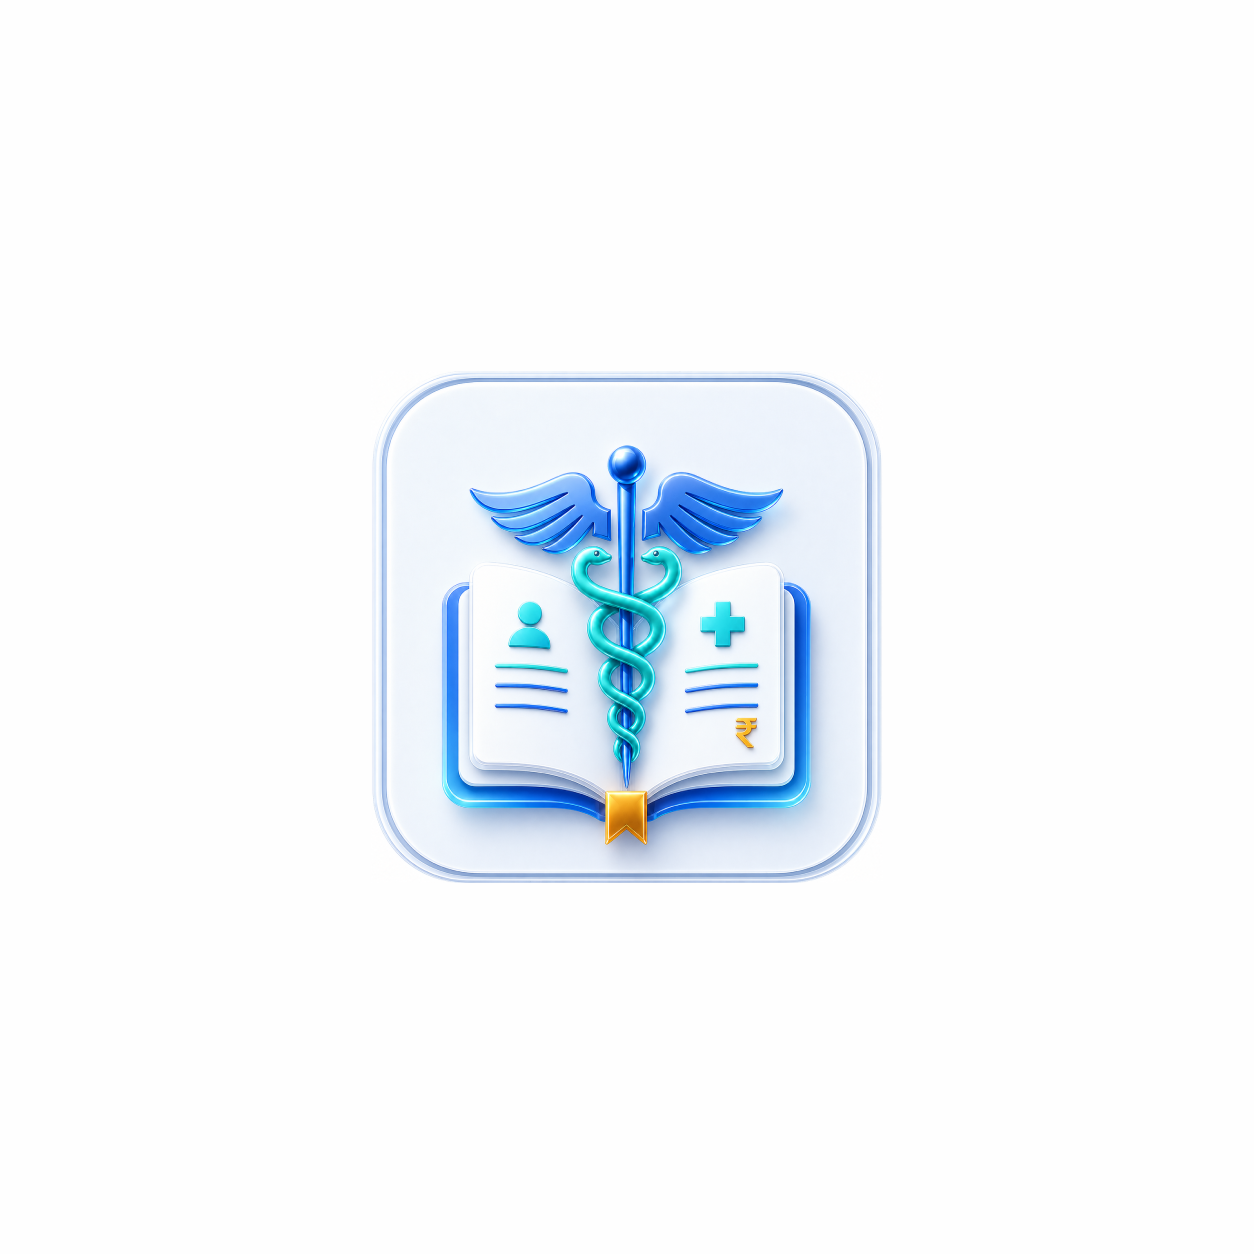
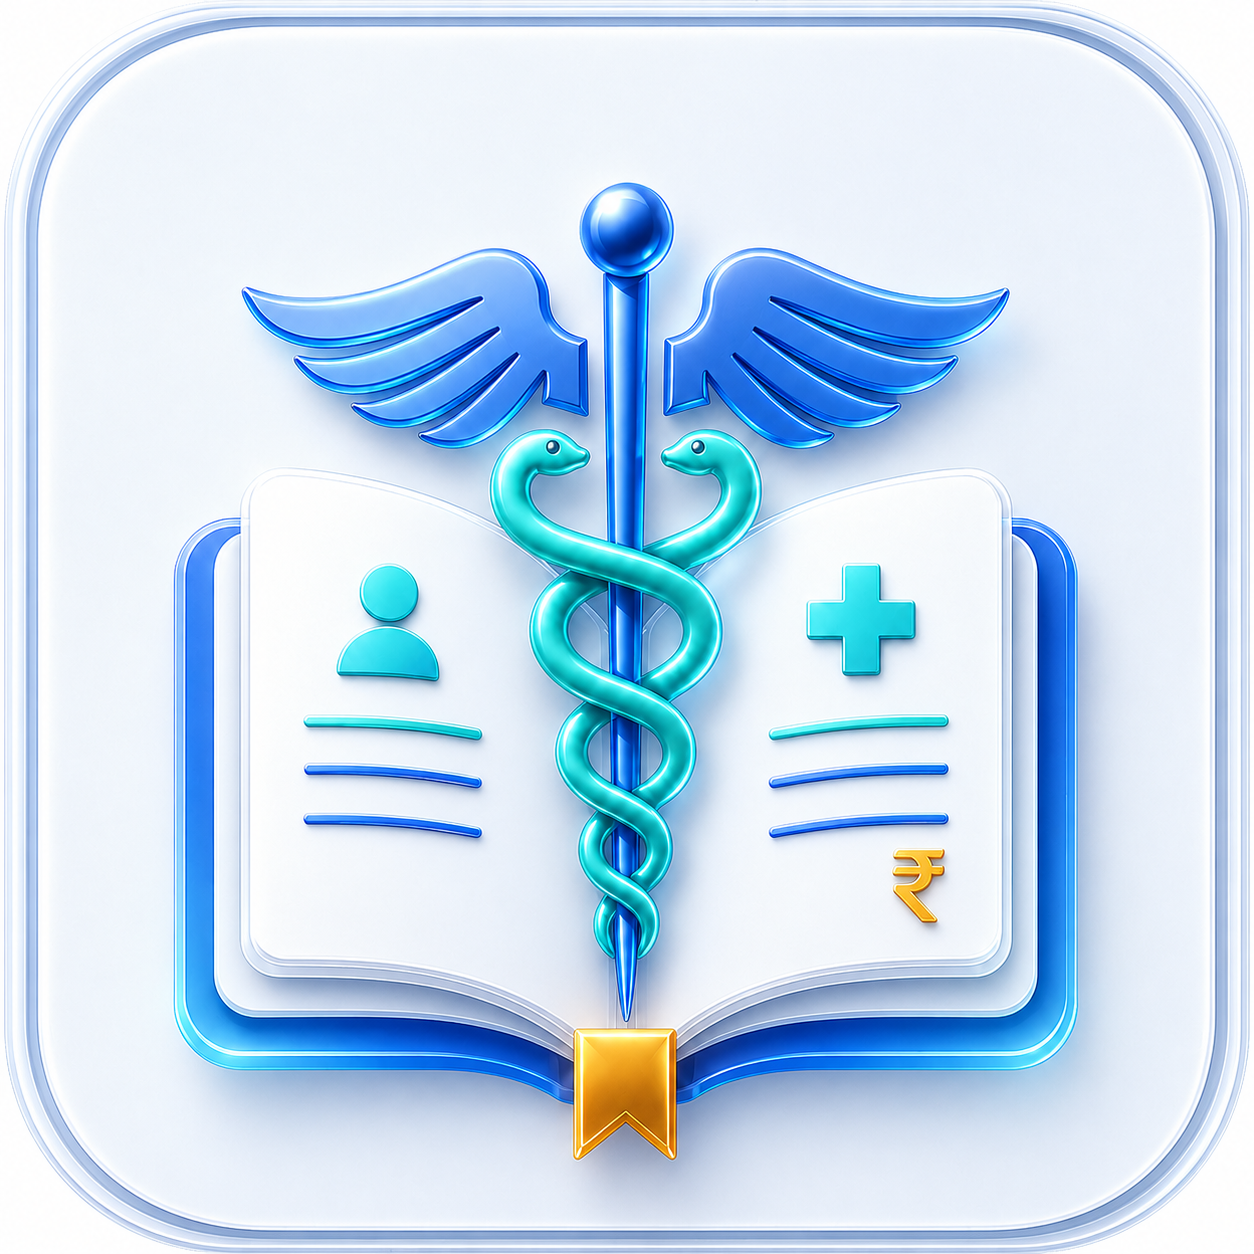
Fix multiple warnings and revert AGP version

diff --git a/app/src/main/java/com/clinicledger/data/util/DataSeeder.kt b/app/src/main/java/com/clinicledger/data/util/DataSeeder.kt
@@ -42,7 +42,7 @@ object DataSeeder {
                     Pair("Shyosinghpura", "श्योसिंघपुरा"),
                     Pair("Mandaliya", "मंडालिया"),
                     Pair("Nala", "नला"),
-                    Pair("Piplya", "पीपल्या")
+                    Pair("Piplya", "पीपल्या"),
                 )
                 for (v in seedVillages) {
                     db.execSQL("INSERT OR IGNORE INTO villages (name, name_hindi) VALUES ('${v.first}', '${v.second}')")
@@ -72,7 +72,14 @@ object DataSeeder {
                 casteHin = "शर्मा",
                 villageName = "Siras",
                 members = listOf(
-                    SeedMember("Sitaram Sharma", "सीताराम शर्मा", "Grandfather", "दादाजी", true, "Sitaram"),
+                    SeedMember(
+                        nameEng = "Sitaram Sharma",
+                        nameHin = "सीताराम शर्मा",
+                        relationshipEng = "Grandfather",
+                        relationshipHin = "दादाजी",
+                        isMale = true,
+                        alias = "Sitaram"
+                    ),
                     SeedMember("Saraswati Sharma", "सरस्वती शर्मा", "Grandmother", "दादीजी", false),
                     SeedMember("Ramesh Sharma", "रमेश शर्मा", "Father", "पिताजी", true, "Ramesh"),
                     SeedMember("Sunita Sharma", "सुनीता शर्मा", "Mother", "माताजी", false),
@@ -212,7 +219,7 @@ object DataSeeder {
 
             for (m in fam.members) {
                 val phonePrefix = listOf("98", "99", "97", "89", "88", "76", "77", "94")
-                val phone = phonePrefix[random.nextInt(phonePrefix.size)] + String.format("%08d", random.nextInt([phone redacted]))
+                val phone = phonePrefix[random.nextInt(phonePrefix.size)] + String.format(java.util.Locale.US, "%08d", random.nextInt([phone redacted]))
                 val patientName = "${m.nameEng} / ${m.nameHin}"
                 val relationship = "${m.relationshipEng} / ${m.relationshipHin}"
 
@@ -316,7 +323,7 @@ object DataSeeder {
         val numTransactions = random.nextInt(5) // 0 to 4 transactions
         if (numTransactions > 0) {
             var runningBalance = 0.0
-            for (t in 1..numTransactions) {
+            for (_unused in 1..numTransactions) {
                 val daysAgo = random.nextInt(90)
                 val transactionDate = getRandomDateInPast(random, daysAgo)
 
@@ -371,9 +378,9 @@ object DataSeeder {
         if (maxDaysAgo > 0) {
             calendar.add(Calendar.DAY_OF_YEAR, -random.nextInt(maxDaysAgo))
         }
-        calendar.set(Calendar.HOUR_OF_DAY, random.nextInt(24))
-        calendar.set(Calendar.MINUTE, random.nextInt(60))
-        calendar.set(Calendar.SECOND, random.nextInt(60))
+        calendar[Calendar.HOUR_OF_DAY] = random.nextInt(24)
+        calendar[Calendar.MINUTE] = random.nextInt(60)
+        calendar[Calendar.SECOND] = random.nextInt(60)
         return calendar.time
     }
 
@@ -412,7 +419,6 @@ object DataSeeder {
             database.villageDao().deleteAll()
         }
         // Re-seed empty default villages
-        val villageDao = database.villageDao()
         val seedVillages = listOf(
             Pair("Siras", "सिरस"),
             Pair("Mehtabpura", "मेहताबपुरा"),

diff --git a/app/src/main/java/com/clinicledger/ui/util/LocaleManager.kt b/app/src/main/java/com/clinicledger/ui/util/LocaleManager.kt
@@ -25,16 +25,6 @@ object LocaleManager {
         prefs.edit { putString(KEY_LANG, lang) }
     }
 
-    fun applyLocale(context: Context): Context {
-        val lang = getSavedLocale(context)
-        val locale = Locale.forLanguageTag(lang)
-        Locale.setDefault(locale)
-
-        val config = Configuration(context.resources.configuration)
-        config.setLocale(locale)
-        return context.createConfigurationContext(config)
-    }
-
     fun applyLocaleLegacy(context: Context) {
         val lang = getSavedLocale(context)
         val locale = Locale.forLanguageTag(lang)
@@ -109,16 +99,6 @@ object LocaleManager {
             "adjustment" -> if (isHindi) "समायोजन" else "Balance Adjustment"
             else -> type
         }
-    }
-
-    /**
-     * Formats a date relative to now (e.g., "5 days ago" or "5 दिन पहले").
-     */
-    fun formatRelativeDate(date: java.util.Date): String {
-        val isHindi = Locale.getDefault().language == "hi"
-        val diffMs = java.util.Date().time - date.time
-        val days = diffMs / (1000 * 60 * 60 * 24)
-        return if (isHindi) "$days दिन पहले" else "$days days ago"
     }
 
     /**

diff --git a/app/src/main/java/com/clinicledger/voice/VoiceIntentParser.kt b/app/src/main/java/com/clinicledger/voice/VoiceIntentParser.kt
@@ -44,7 +44,7 @@ object VoiceIntentParser {
             villageName = villageName,
             medicineAmount = medicineAmount,
             paymentAmount = paymentAmount,
-            confidence = if (intent != IntentType.UNKNOWN) 0.9f else 0.2f
+            confidence = if (intent != IntentType.UNKNOWN) 0.9f else 0.2f,
         )
     }
 
@@ -179,7 +179,7 @@ object VoiceIntentParser {
                         )
                         villageKeys.contains(w)
                     }
-                    w.length >= 2 && !w.all { it.isDigit() } && !isHindiNumberWord(w) && !isVil && !isStopWord(w)
+                    (w.length >= 2 && !w.all { it.isDigit() } && !isHindiNumberWord(w) && !isVil && !isStopWord(w))
                 }
                 
                 if (words.isNotEmpty()) {
@@ -300,9 +300,8 @@ object VoiceIntentParser {
         }
         if (currentGroupWords.isNotEmpty()) {
             val groupStr = currentGroupWords.joinToString(" ")
-            val parsed = parseGroupString(groupStr)
-            if (parsed != null) {
-                groups.add(NumberGroup(parsed, startIdx, words.size - 1))
+            parseGroupString(groupStr)?.let {
+                groups.add(NumberGroup(it, startIdx, words.size - 1))
             }
         }
         return groups

diff --git a/app/src/main/java/com/clinicledger/ui/MainActivity.kt b/app/src/main/java/com/clinicledger/ui/MainActivity.kt
@@ -101,7 +101,7 @@ class MainActivity : AppCompatActivity() {
                                     },
                                     onOpenVoiceSheet = {
                                         triggerVoiceAssistant()
-                                    }
+                                    },
                                 ) {
                                     val currentLang = LocaleManager.getSavedLocale(this@MainActivity)
                                     val nextLang = if (currentLang == "hi") "en" else "hi"

diff --git a/app/src/main/java/com/clinicledger/ui/compose/SearchScreen.kt b/app/src/main/java/com/clinicledger/ui/compose/SearchScreen.kt
@@ -2,7 +2,6 @@ package com.clinicledger.ui.compose
 
 import androidx.activity.compose.BackHandler
 import androidx.compose.foundation.Image
-import androidx.compose.foundation.background
 import androidx.compose.foundation.clickable
 import androidx.compose.foundation.layout.*
 import androidx.compose.foundation.lazy.LazyColumn